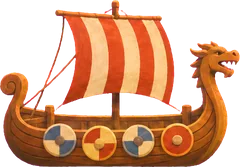
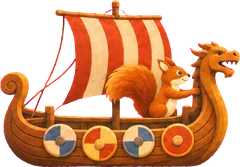
feat(game): the rides painted with the squirrel riding them
Each ride is one painting with the squirrel in it, not the sitting
squirrel pasted on top: at the longship's bow, at the wheel of the little
car, the post bus, the taxi, the locomotive and the streetcar, on the
scooter and the chopper, in the cargo bike's box, crouched on the
skateboard, on the reindeer's back, Bigfoot's shoulder and in the mule's
saddle (in both walking frames). Codex painted them over the rides as they
were, so each keeps its size. The seat table and the sit sprite are gone.

diff --git a/src/game/draw.ts b/src/game/draw.ts
@@ -1306,33 +1306,15 @@ function ending(
 
 /** Where the squirrel sits on each ride: across from the ride's left edge,
  *  and the seat's height above its bottom, game px. */
-const SEAT: Record<string, [number, number]> = {
-  longship: [14, 17],
-  littlecar: [27, 26],
-  scooter: [13, 19],
-  postbus: [32, 27],
-  cab: [23, 21],
-  bigfoot: [17, 31],
-  chopper: [27, 17],
-  reindeer: [20, 27],
-  cargobike: [44, 19],
-  steamtrain: [32, 24],
-  skateboard: [17, 8],
-  streetcar: [35, 34],
-  mule: [22, 25],
-};
-
+/** A ride, with the squirrel painted into it: a little bounce on the road
+ *  (a slow roll on the water), tilted with the slope. */
 function ride(
   ctx: CanvasRenderingContext2D,
   g: Game,
-  art: Art,
   vehicle: Sprite,
-  id: string,
   view: View,
   bottom: number
 ) {
-  // A little bounce on the road (a slow roll on the water), tilted with
-  // the slope.
   const k = SIZE.squirrel;
   const bob = Math.sin(g.tick / 4) * 0.5;
   const left = PLAYER_X + RIDER.w / 2 - (k * vehicle.w) / 2;
@@ -1346,17 +1328,6 @@ function ride(
     left + k * vehicle.w,
     bottom + bob,
     tilt
-  );
-  const sit = art.get('squirrel/sit');
-  if (!sit) return;
-  const [x, height] = SEAT[id] ?? [vehicle.w / 2, vehicle.h];
-  figure(
-    ctx,
-    sit,
-    0,
-    left + k * (x + sit.w / 2),
-    bottom + bob - k * height,
-    tilt + Math.sin(g.tick / 7) * 3
   );
 }
 
@@ -1397,7 +1368,7 @@ function squirrel(
     // The last two seconds blink, as the ride wears off.
     const fading = g.ride.until - g.tick < 2 * TICKS_PER_SECOND;
     if (!fading || Math.floor(g.tick / 4) % 2) {
-      ride(ctx, g, art, vehicle, g.ride.art, view, bottom);
+      ride(ctx, g, vehicle, view, bottom);
       return;
     }
   }
